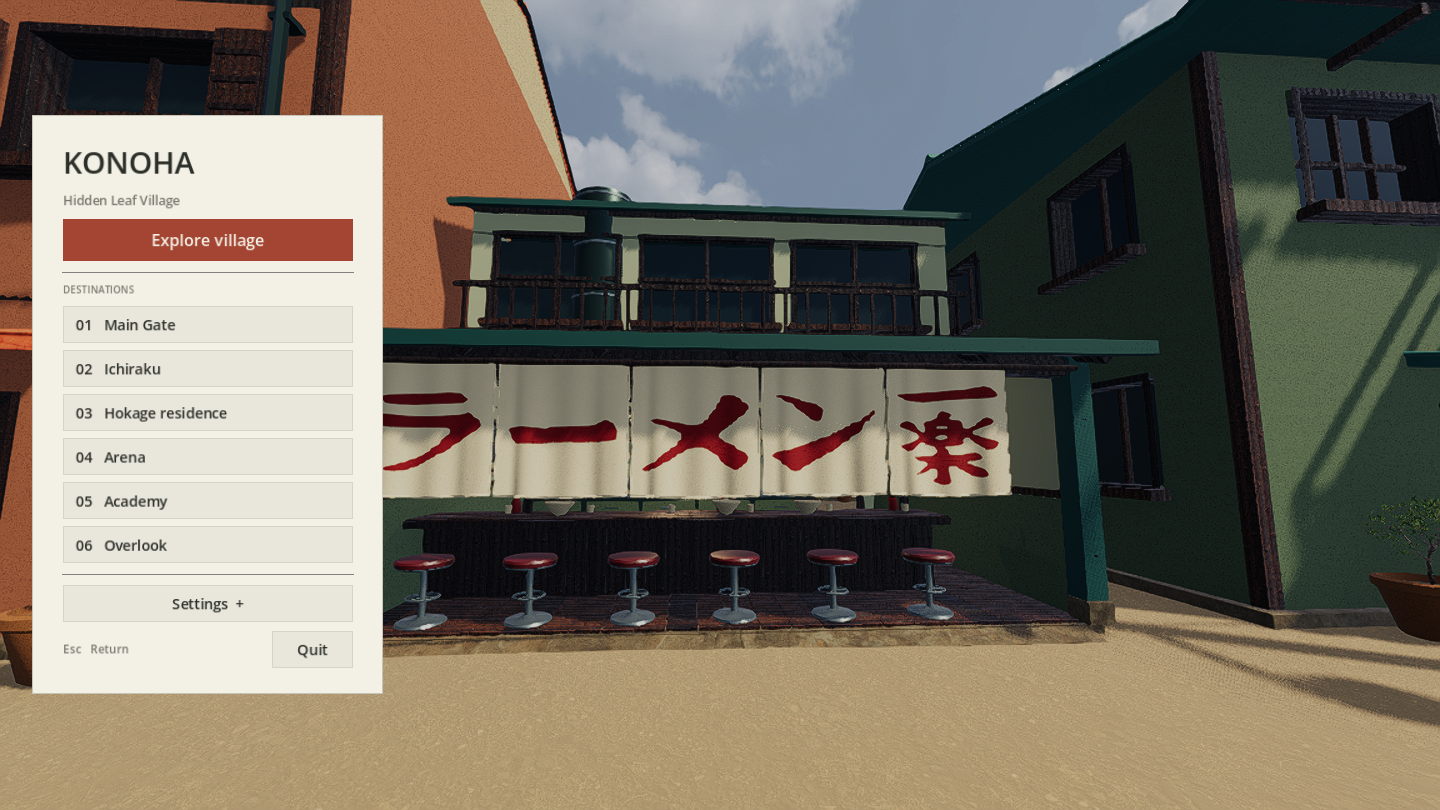
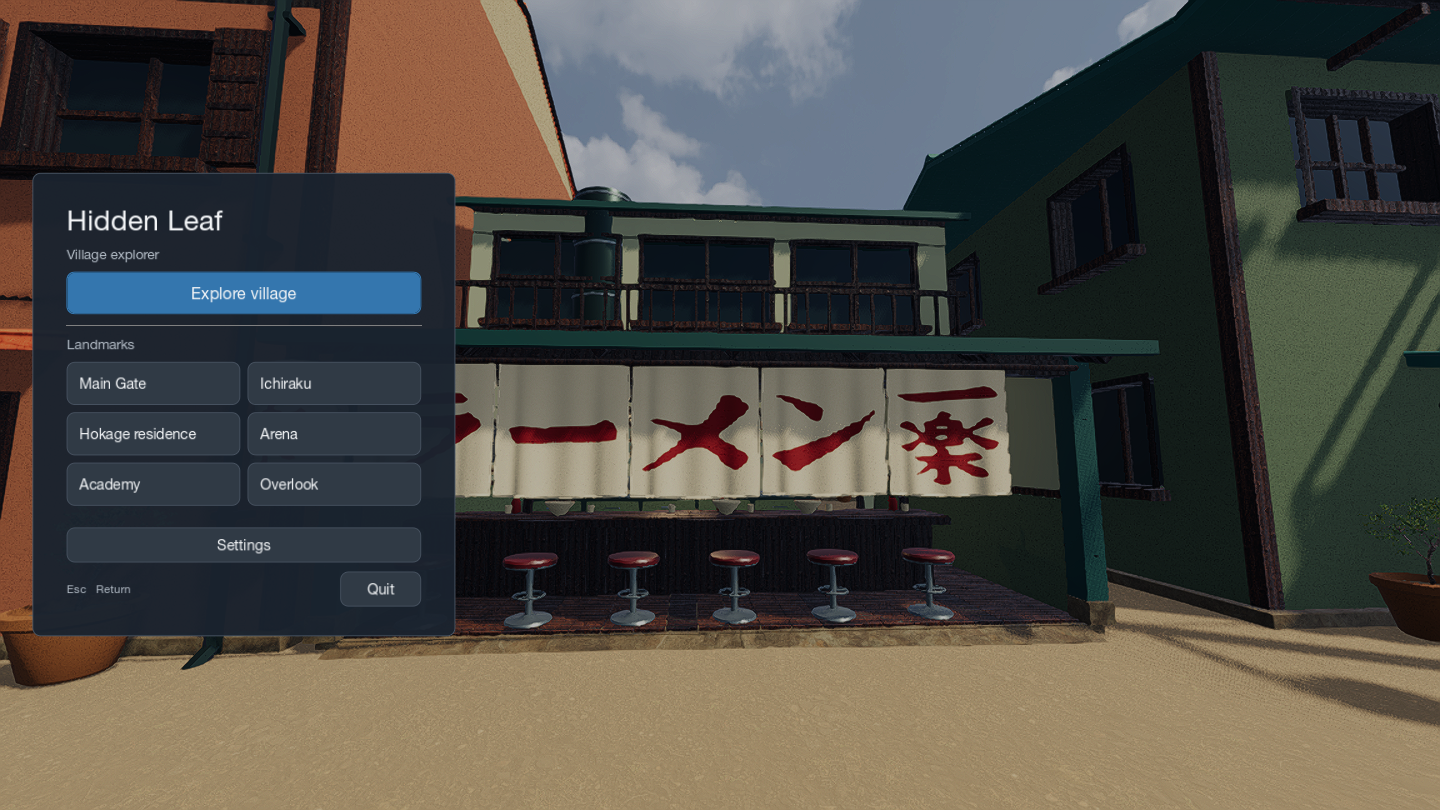
Refine visual hierarchy from documented design references

Changed region(s): [[0.0, 0.1235, 0.3438, 0.8642], [0.9688, 0.6173, 1.0, 0.6481]]

diff --git a/tools/package_macos.py b/tools/package_macos.py
@@ -21,7 +21,7 @@ import tempfile
 
 ROOT = Path(__file__).resolve().parents[1]
 WORK = ROOT / ".build"
-APP_NAME = "Hidden Leaf Explorer"
+APP_NAME = "Hidden Leaf"
 EXECUTABLE = "HiddenLeafExplorer"
 BUNDLE_ID = "local.hiddenleaf.explorer"
 DEFAULT_DEST = WORK / "dist" / f"{APP_NAME}.app"
@@ -112,7 +112,7 @@ def credits_from_manifest(path: Path) -> tuple[str, dict[str, str]]:
             assets[str(name)] = str(source)
     assets.update(EXTRA_ASSETS)
     lines = [
-        "# Hidden Leaf Explorer", "",
+        "# Hidden Leaf", "",
         "Setting inspired by Naruto Shippuden, created by Masashi Kishimoto.",
         "Village geometry and explorer implementation were created for this local project.", "",
         "Architecture was modeled using frames from Naruto and Naruto Shippuden. The source pages are "

diff --git a/tools/fetch_assets.py b/tools/fetch_assets.py
@@ -49,6 +49,9 @@ def main():
         for name in ('village_v3.glb', 'village_v3.json'):
             if not (unpack / 'assets' / name).is_file():
                 raise ValueError(f'Archive missing {name}')
+        # The scene uses the adjacent PNG; this unused EXR uses compression
+        # unsupported by Godot's importer. Preserve the verified archive, omit the duplicate.
+        (unpack / 'assets/vegetation/textures/tree_small_02_nor_gl_1k.exr').unlink(missing_ok=True)
         (unpack / 'assets').rename(destination)
     print('Verified assets installed at', destination)
 

diff --git a/README.md b/README.md
@@ -2,7 +2,7 @@
 
 An explorable Hidden Leaf Village scene built with Godot and Blender. Walk through the village, enter Ichiraku, or jump between six landmarks.
 
-[Download for Apple Silicon Mac](https://github.com/dicnunz/hidden-leaf/releases/latest)
+[Download for Apple Silicon Mac](https://github.com/dicnunz/hidden-leaf/releases/tag/v0.3.0)
 
 ![Village landmark menu](docs/menu.png)
 
@@ -26,7 +26,7 @@ The asset download contains the generated scene, vegetation and material maps. I
 
 The menu includes landmark shortcuts, fullscreen, mouse sensitivity and three graphics settings. The build has been tested on an Apple M3 using Metal and Forward+ rendering.
 
-The menu uses a quiet landmark register with ink, ivory and vermilion, informed by [Japanese shrine plaques and signs](https://www.mlit.go.jp/tagengo-db/en/H30-00534.html). Settings open on demand, keeping the village visible.
+The menu groups landmarks in two columns. Settings open on demand; graphics, fullscreen and look sensitivity are saved locally.
 
 ## Implementation
 
